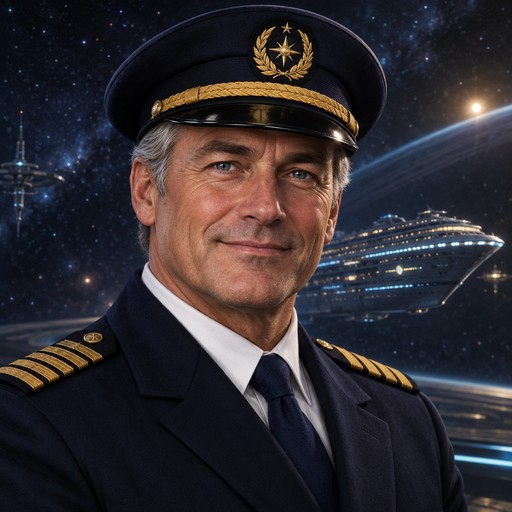
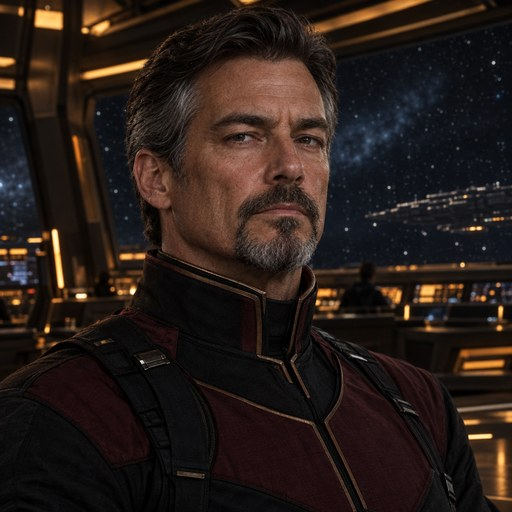
Replace the Carrier Captain portraits with sci-fi ones
captain.man.jpg and captain.woman.jpg showed a cruise-ship captain in a
peaked cap, gold braid and tie. Both now show a captain in a burgundy and
black command tunic and harness on an amber-lit carrier bridge, generated
with tools/story-image.py and saved at 512 px like the other portraits.

diff --git a/CHANGELOG.md b/CHANGELOG.md
@@ -20,6 +20,8 @@ A galaxy search whose match count reaches Spansh's limit of ten thousand now say
 
 Each Commander keeps their own Raven Colonial key. Set it while that Commander is shown; a key stored before this release moves to the Commander it belongs to the first time that Commander is shown. A key entered under the wrong Commander sends nothing.
 
+The Carrier Captain's portraits are new. Both captains wear a burgundy and black command tunic on a carrier bridge, in place of a naval cap and braid.
+
 The last step of setup has a link, THE D47 DISCORD, that opens the community page in your browser.
 
 The bar under a story write now estimates the time at the effort the app writes stories at. For Claude Sonnet 5.5 it expects about two and a half minutes instead of under half a minute; for GPT-6 Luna, about a minute.
